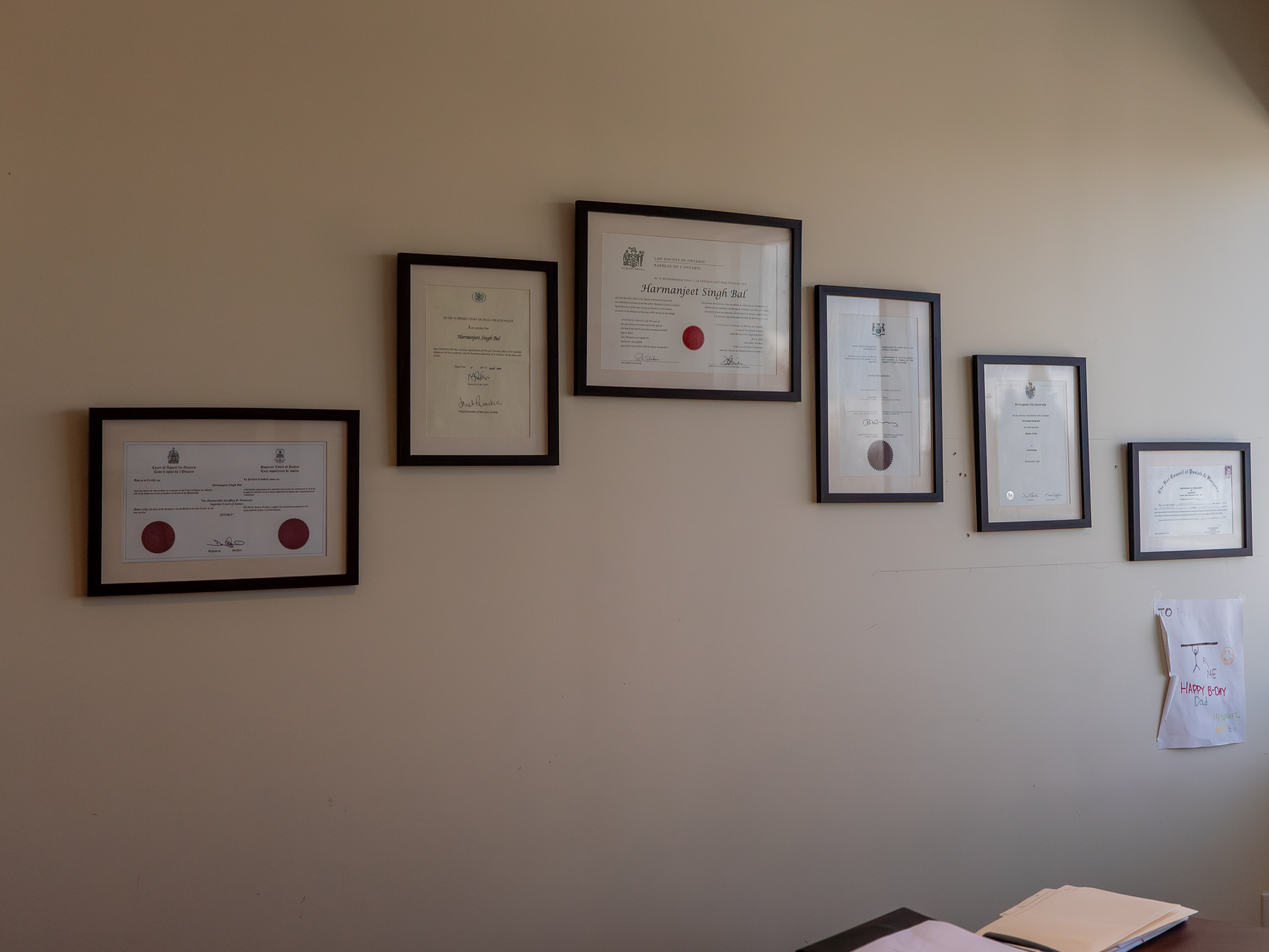
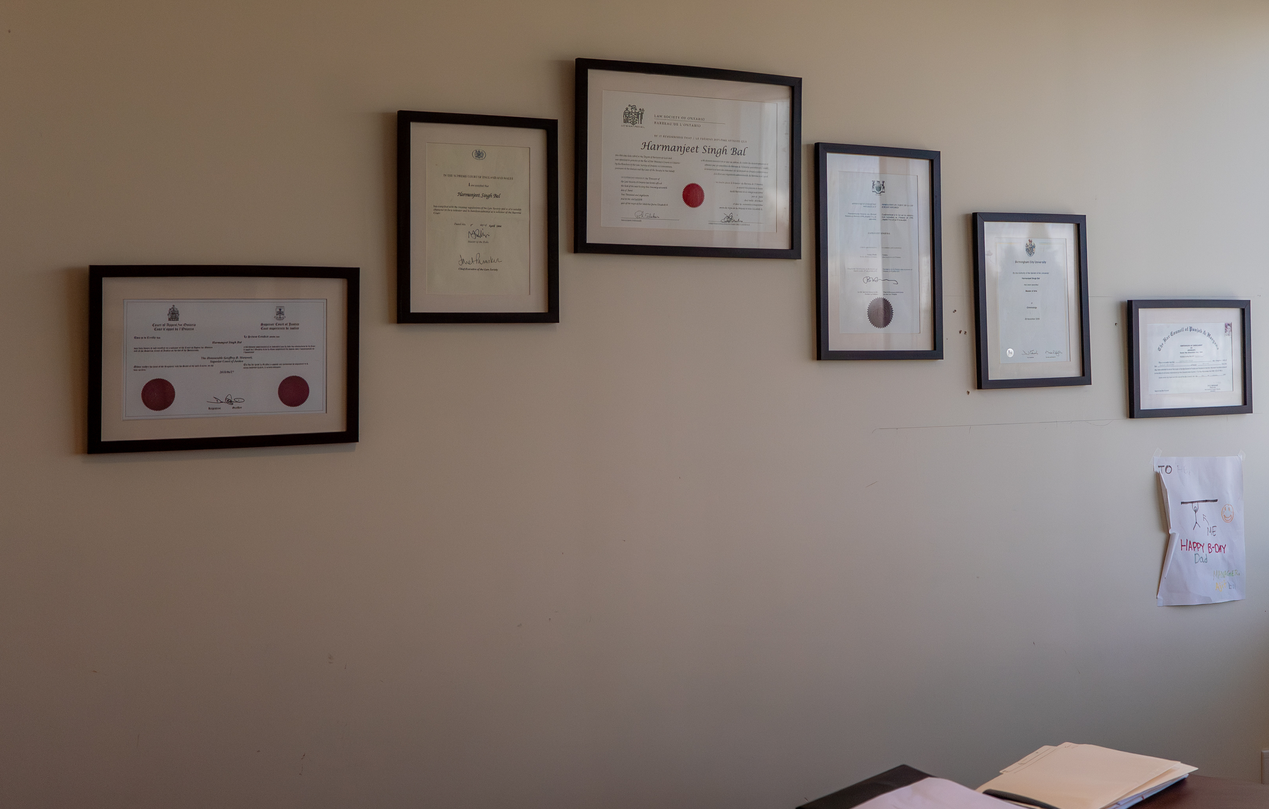
homepage about

diff --git a/css/style.css b/css/style.css
@@ -3673,7 +3673,7 @@ body {
     color: #ffffff;
     background:
         linear-gradient(90deg, rgba(5, 52, 78, 0.96), rgba(5, 52, 78, 0.78)),
-        url("../images/khushdeep-37.jpg") center/cover no-repeat;
+        url("../images/khushdeep-37.jpg") top/cover no-repeat;
 }
 
 .home1-page .hl-hero::after {
@@ -3682,7 +3682,7 @@ body {
     left: 0;
     right: 0;
     bottom: -1px;
-    height: 90px;
+    height: 46px;
     background: linear-gradient(180deg, rgba(255, 255, 255, 0), #ffffff);
 }
 
@@ -3695,7 +3695,7 @@ body {
     max-width: 560px;
     margin: 0 0 1rem;
     color: #ffffff;
-    font-size: clamp(3.4rem, 7vw, 6.25rem);
+    font-size: clamp(3.4rem, 7vw, 5.25rem);
     line-height: 0.92;
 }
 
